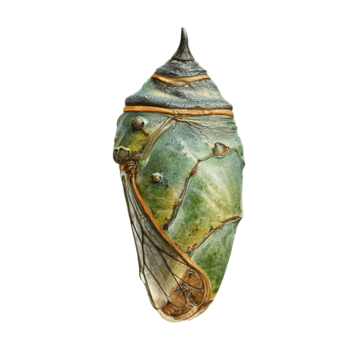
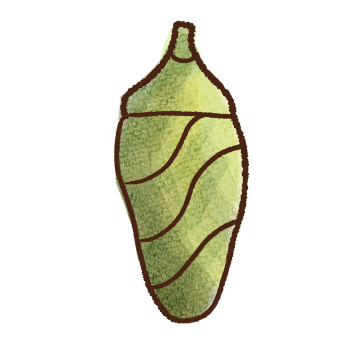
Added map and leaves can be eaten

Changed region(s): [[0.3056, 0.0611, 0.7028, 0.9167]]

diff --git a/Metamorphosis/Level3.cpp b/Metamorphosis/Level3.cpp
@@ -25,16 +25,16 @@ MAP KEY:
 3 = Finish
 */
 
-//std::vector<int> map = { 0 , 1 , 2, 1 , 0 , 0, 1, 2, 2, 0, 1, 3};
-std::vector<int> map = { 0 , 1, 3 };
+std::vector<int> map = { 0 , 1 , 2, 1 , 0 , 0, 1, 2, 2, 0, 1, 3};
+//std::vector<int> map = { 0 , 1 , 1, 3 };
 
 float bottomEdge;
 float topEdge;
 
 
 void Level3::Restart() {
-	bottomEdge = butterfly.position.y + (camera->getViewSize().y / 2);
-	topEdge = butterfly.position.y - (camera->getViewSize().y / 2);
+	bottomEdge = (camera->getViewSize().y / 2);
+	topEdge =  -(camera->getViewSize().y / 2);
 
 	Physics::Init();
 	butterfly.position = sf::Vector2f(0, 0);
@@ -52,27 +52,30 @@ void Level3::Restart() {
 
 
 		//change where the bush is based on the layout vector
-		//make switch case if ur bored one day
 		switch (map[i]) {
 		case 0:
+			//middle
 			bush.position.y = bottomEdge - 5;
 			bush.Begin();
 			vine.position.y = topEdge + 5;
 			vine.Begin();
 			break;
 		case 1:
+			//low
 			bush.position.y = bottomEdge + 20;
 			bush.Begin();
 			vine.position.y = topEdge + 30;
 			vine.Begin();
 			break;
 		case 2:
+			//high
 			bush.position.y = bottomEdge - 30;
 			bush.Begin();
 			vine.position.y = topEdge - 20;
 			vine.Begin();
 			break;
 		case 3:
+			//win
 			flower.position.x = (200 * i) + 150;
 			flower.position.y = bottomEdge;
 			flower.Begin();
@@ -83,6 +86,7 @@ void Level3::Restart() {
 }
 
 void Level3::Begin(const sf::Window& window) {
+	
 	Restart();
 }
 
@@ -90,23 +94,28 @@ void Level3::Update(float deltaTime) {
 	Physics::Update(deltaTime);
 	butterfly.Update(deltaTime);
 
+	//make the camera stop moving with the player when they reach the end
 	if (butterfly.position.x < flower.position.x - 100) {
 		camera->position.x = butterfly.position.x;
 	}
 
+	//playerr dies if they hit a bush or vine OR if they go off screen
 	if (butterfly.collided) {
 		Restart();
-	}
-	if (butterfly.onFlower)
-	{
-		stageComplete = true;
 	}
 	if (butterfly.position.y > bottomEdge || butterfly.position.y < topEdge) {
 		Restart();
 	}
+	//player wins when they land on flower
+	if (butterfly.onFlower)
+	{
+		stageComplete = true;
+	}
+	
 }
 
 void Level3::Render(Renderer& renderer) {
+	//make the sky stop moving when the camera does
 	float skyPositionX;
 	if (butterfly.position.x < flower.position.x - 100) {
 		skyPositionX = butterfly.position.x;
@@ -127,24 +136,28 @@ void Level3::Render(Renderer& renderer) {
 		//change where the bush is based on the layout vector
 		switch (map[i]) {
 		case 0:
+			//middle
 			bush.position.y = bottomEdge - 5;
 			bush.Draw(renderer);
 			vine.position.y = topEdge + 5;
 			vine.Draw(renderer);
 			break;
 		case 1:
+			//low
 			bush.position.y = bottomEdge + 20;
 			bush.Draw(renderer); 
 			vine.position.y = topEdge + 30;
 			vine.Draw(renderer);
 			break;
 		case 2:
+			//high
 			bush.position.y = bottomEdge - 30;
 			bush.Draw(renderer);
 			vine.position.y = topEdge - 20;
 			vine.Draw(renderer);
 			break;
 		case 3:
+			//win
 			flower.position.x = (200 * i) + 150;
 			flower.position.y = bottomEdge;
 			flower.Draw(renderer);
@@ -155,5 +168,5 @@ void Level3::Render(Renderer& renderer) {
 
 	}
 
-	Physics::DebugDraw(renderer);
+	//Physics::DebugDraw(renderer);
 }

diff --git a/Metamorphosis/Level1.cpp b/Metamorphosis/Level1.cpp
@@ -11,30 +11,92 @@
 #include "Leaf.h"
 
 Caterpillar caterpillar;
-Leaf leaf;
+Leaf* leaf;
+std::vector<Leaf*> leaves;
+
+/*
+MAP KEY
+0 = empty space
+1 = Player
+2 = Leaf
+3 = Mantis
+*/
+
+std::vector<std::vector<int>> 
+map = {
+	{0, 0, 2, 0, 0},
+	{0, 0, 0, 0, 0},
+	{2, 0, 1, 0, 2},
+	{0, 0, 0, 0, 0},
+	{0, 0, 2, 0, 0}
+};
+
+void Level1::CreateMap(std::vector<std::vector<int>> map) {
+	//How far away each item will be from each other
+	int distance = 50;
+
+	for (int i = 0; i < map.size(); i++) {
+
+		for (int j = 0; j < map[i].size(); j++) {
+			if (map[i][j] == 1) {
+				caterpillar.position = sf::Vector2f(j * distance, i * distance);
+			}
+			else if (map[i][j] == 2) {
+				leaf = new Leaf();
+				leaf->position = sf::Vector2f(j * distance, i * distance);
+				leaves.push_back(leaf);
+			}
+		}
+
+	}
+}
+
 
 void Level1::Begin(const sf::Window& window) {
 	Physics::Init();
-	leaf.position = sf::Vector2f(16, 32);
+
+	CreateMap(map);
 	caterpillar.Begin();
-	leaf.Begin();
+
+	for (auto& leaf : leaves) {
+		leaf->Begin();
+	}
 }
 void Level1::Update(float deltaTime) {
 	Physics::Update(deltaTime);
+
 	caterpillar.Update(deltaTime);
-	leaf.Update(deltaTime);
+
+	for (auto& leaf : leaves) {
+		if (leaf->eaten == true) {
+			caterpillar.eatenLeaves++;
+			std::cout << caterpillar.eatenLeaves << std::endl;
+			DeleteLeaf(leaf);
+		}
+	}
+
 	camera->position = caterpillar.position;
 }
 
 void Level1::Render(Renderer& renderer) {
 	caterpillar.Draw(renderer);
 
-	leaf.Draw(renderer);
+	for (auto& leaf : leaves) {
+		leaf->Draw(renderer);
+	}
 
 	Physics::DebugDraw(renderer);
 
 	if (caterpillar.eatenLeaves >= 10) {
 		stageComplete = true;
+	}
+}
+
+void DeleteLeaf(Leaf* leaf) {
+	const auto& it = std::find(leaves.begin(), leaves.end(), leaf);
+	if (it != leaves.end()) {
+		delete *it;
+		leaves.erase(it);
 	}
 }
 

diff --git a/Metamorphosis/Caterpillar.cpp b/Metamorphosis/Caterpillar.cpp
@@ -6,7 +6,6 @@
 #include <iostream>
 
 constexpr float M_PI = 22.0 / 7.0;
-Leaf* leaf;
 
 void Caterpillar::Begin() {
 	//tagging with the correct listeners
@@ -71,8 +70,6 @@ void Caterpillar::Update(float deltaTime) {
 	body->SetLinearVelocity(velocity);
 	position = sf::Vector2f(body->GetPosition().x, body->GetPosition().y); 
 
-	
-
 }
 
 void Caterpillar::Draw(Renderer& renderer) {
@@ -83,8 +80,7 @@ void Caterpillar::Draw(Renderer& renderer) {
 void Caterpillar::OnBeginContact(b2Fixture* other) {
 	FixtureData* data = (FixtureData*)other->GetUserData();
 	if (data && data->type == FixtureDataType::Leaf) {
-		eatenLeaves++;
-		std::cout << eatenLeaves << std::endl;
+		data->leaf->eaten = true;
 	}
 }
 

diff --git a/Metamorphosis/Leaf.cpp b/Metamorphosis/Leaf.cpp
@@ -1,10 +1,14 @@
 #include "Leaf.h"
 #include "Resources.h"
 
+Leaf::~Leaf() {
+	Physics::world->DestroyBody(body);
+}
 
 void Leaf::Begin() {
 	FixtureData* fixtureData = new FixtureData();
 	fixtureData->type = FixtureDataType::Leaf;
+	fixtureData->leaf = this;
 
 	//box 2d body for collisions
 	b2BodyDef bodyDef{};
@@ -22,6 +26,9 @@ void Leaf::Begin() {
 	fixtureDef.isSensor = true;
 	fixtureDef.userData = fixtureData;
 	body->CreateFixture(&fixtureDef);
+
+	//value for if to delete or not
+	eaten = false;
 }
 
 void Leaf::Update(float deltaTime) {

diff --git a/Metamorphosis/Game.cpp b/Metamorphosis/Game.cpp
@@ -62,7 +62,6 @@ void Game::Update(float deltaTime)
 		}
 		break;
 	case 3:
-		LevelComplete = false;
 		break;
 	}
 }
@@ -79,7 +78,6 @@ void Game::Render(Renderer& renderer)
 		level3.Render(renderer);
 		break;
 	case 3:
-		LevelComplete = false;
 		break;
 	}
 }

diff --git a/Metamorphosis/Level1.h b/Metamorphosis/Level1.h
@@ -15,8 +15,12 @@ public:
 	void Update(float deltaTime);
 	void Render(Renderer& renderer);
 
+	void CreateMap(std::vector<std::vector<int>> map);
+
 	Camera *camera;
 
 	bool stageComplete = false;
 };
+
+void DeleteLeaf(Leaf* leaf);
 

diff --git a/Metamorphosis/Leaf.h b/Metamorphosis/Leaf.h
@@ -7,11 +7,14 @@
 class Leaf
 {
 public:
+	~Leaf();
+
 	void Begin();
 	void Update(float deltaTime);
 	void Draw(Renderer& renderer);
 
 	sf::Vector2f position{};
+	bool eaten;
 
 private:
 	b2Body* body;

diff --git a/Metamorphosis/Levels.cpp b/Metamorphosis/Levels.cpp
@@ -1,7 +1,7 @@
 #include "Levels.h"
 #include <iostream>
 
-int currentLevel = 2;
+int currentLevel = 0;
 int maxLevel = 4;
 
 void ChangeLevels() {
